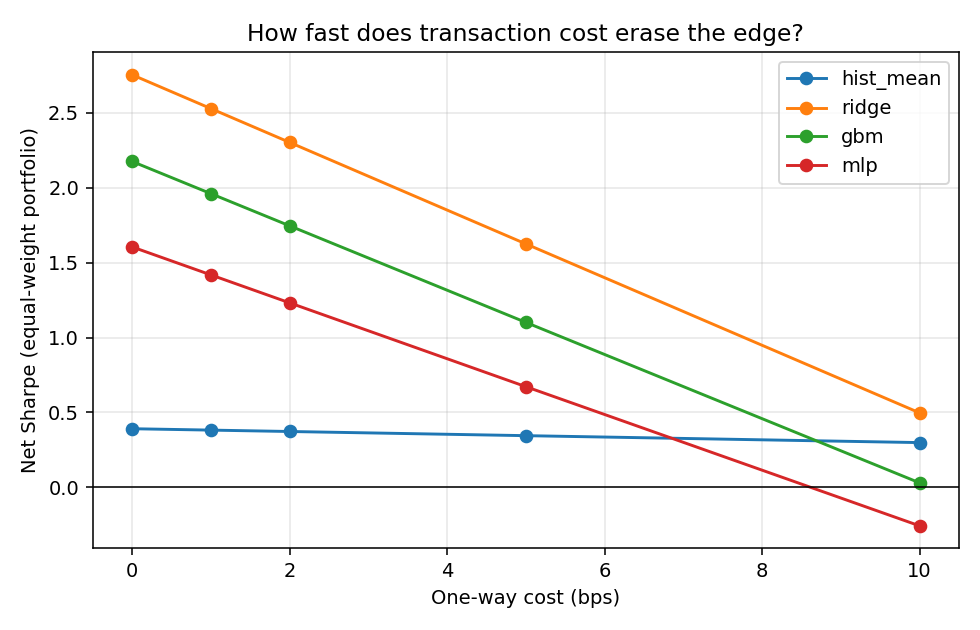
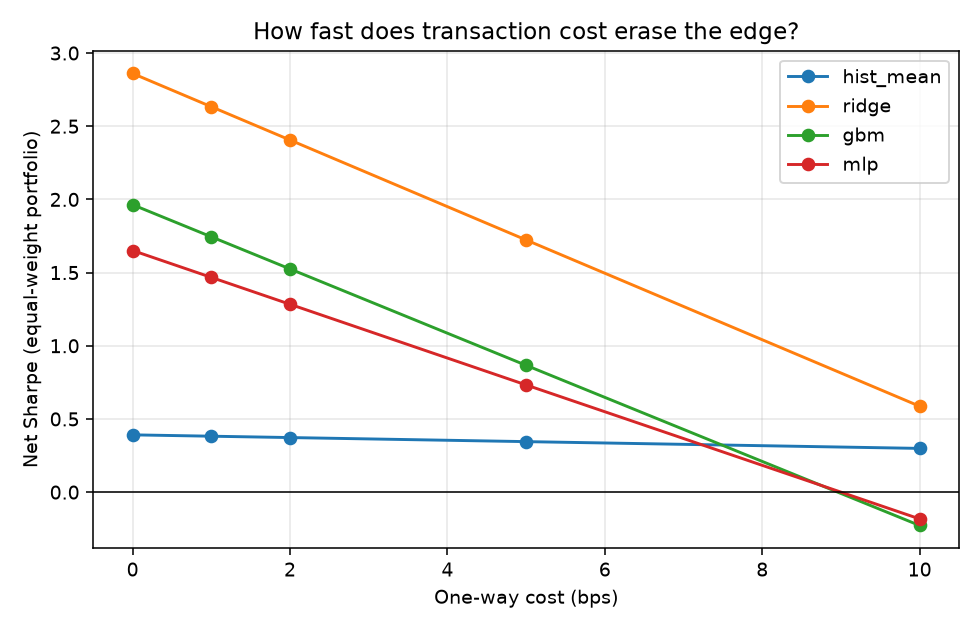
Modified Readme

diff --git a/results/synthetic_null/summary.md b/results/synthetic_null/summary.md
@@ -4,27 +4,27 @@
 
 Out-of-sample window: 2015-02-20 to 2023-06-29  
 Instruments: SYN0, SYN1, SYN2, SYN3  
-Cost: 2 bps one-way; vol target 10%; refit every 126 days, expanding window.
+Cost: 2 bps one-way; vol target 10%; refit every 63 days, expanding window.
 
 ## Equal-weight portfolio (net of costs)
 
 | model | ann_return | ann_vol | sharpe | sharpe_lo | sharpe_hi | max_drawdown | avg_daily_turnover |
 |---|---|---|---|---|---|---|---|
 | hist_mean | 0.014 | 0.051 | 0.302 | -0.364 | 0.969 | -0.094 | 0.019 |
-| ridge | -0.035 | 0.051 | -0.662 | -1.328 | 0.005 | -0.287 | 0.217 |
-| gbm | -0.024 | 0.052 | -0.442 | -1.109 | 0.224 | -0.216 | 0.348 |
-| mlp | -0.034 | 0.051 | -0.651 | -1.318 | 0.016 | -0.265 | 0.385 |
+| ridge | -0.034 | 0.052 | -0.641 | -1.307 | 0.026 | -0.282 | 0.216 |
+| gbm | -0.026 | 0.051 | -0.491 | -1.158 | 0.175 | -0.233 | 0.355 |
+| mlp | -0.047 | 0.051 | -0.910 | -1.577 | -0.243 | -0.347 | 0.396 |
 | buy_and_hold | 0.005 | 0.095 | 0.099 | -0.567 | 0.766 | -0.190 |  |
 
 ## Net Sharpe vs. transaction cost (bps)
 
 | cost_bps | hist_mean | ridge | gbm | mlp |
 |---|---|---|---|---|
-| 0.00 | 0.32 | -0.45 | -0.10 | -0.27 |
-| 1.00 | 0.31 | -0.56 | -0.27 | -0.46 |
-| 2.00 | 0.30 | -0.66 | -0.44 | -0.65 |
-| 5.00 | 0.27 | -0.98 | -0.95 | -1.22 |
-| 10.00 | 0.23 | -1.50 | -1.79 | -2.16 |
+| 0.00 | 0.32 | -0.43 | -0.14 | -0.52 |
+| 1.00 | 0.31 | -0.54 | -0.32 | -0.72 |
+| 2.00 | 0.30 | -0.64 | -0.49 | -0.91 |
+| 5.00 | 0.27 | -0.96 | -1.01 | -1.49 |
+| 10.00 | 0.23 | -1.48 | -1.88 | -2.45 |
 
 ## Per-instrument predictive tests
 
@@ -32,23 +32,23 @@ Cost: 2 bps one-way; vol target 10%; refit every 126 days, expanding window.
 
 | ticker | model | oos_r2 | ic | ic_p_adj | hit_rate | up_day_rate | hit_p_adj | sharpe | max_drawdown |
 |---|---|---|---|---|---|---|---|---|---|
-| SYN0 | hist_mean | 0.000 | -0.000 |  | 0.522 | 0.478 |  | 0.523 | -0.293 |
-| SYN0 | ridge | -0.011 | -0.069 | 0.016 | 0.496 | 0.478 | 0.852 | -0.327 | -0.475 |
-| SYN0 | gbm | -0.033 | -0.007 | 0.982 | 0.512 | 0.478 | 0.852 | 0.285 | -0.184 |
-| SYN0 | mlp | -0.037 | -0.030 | 0.497 | 0.508 | 0.478 | 0.852 | -0.138 | -0.323 |
+| SYN0 | hist_mean | 0.000 | -0.025 |  | 0.522 | 0.478 |  | 0.523 | -0.293 |
+| SYN0 | ridge | -0.010 | -0.068 | 0.017 | 0.496 | 0.478 | 0.737 | -0.370 | -0.487 |
+| SYN0 | gbm | -0.031 | -0.012 | 0.866 | 0.514 | 0.478 | 0.823 | 0.264 | -0.234 |
+| SYN0 | mlp | -0.035 | -0.024 | 0.633 | 0.504 | 0.478 | 0.983 | -0.220 | -0.377 |
 | SYN0 | buy_and_hold |  |  |  |  |  |  | -0.480 | -0.707 |
-| SYN1 | hist_mean | 0.000 | -0.004 |  | 0.494 | 0.506 |  | -0.501 | -0.411 |
-| SYN1 | ridge | -0.002 | -0.001 | 0.982 | 0.492 | 0.506 | 0.852 | -0.528 | -0.430 |
-| SYN1 | gbm | -0.027 | -0.011 | 0.982 | 0.501 | 0.506 | 0.898 | -0.552 | -0.537 |
-| SYN1 | mlp | -0.054 | -0.000 | 0.982 | 0.503 | 0.506 | 0.852 | -0.680 | -0.516 |
+| SYN1 | hist_mean | 0.000 | 0.000 |  | 0.494 | 0.506 |  | -0.501 | -0.411 |
+| SYN1 | ridge | -0.002 | -0.001 | 0.991 | 0.493 | 0.506 | 0.891 | -0.487 | -0.419 |
+| SYN1 | gbm | -0.021 | -0.011 | 0.866 | 0.491 | 0.506 | 0.823 | -0.475 | -0.525 |
+| SYN1 | mlp | -0.051 | -0.000 | 0.991 | 0.507 | 0.506 | 0.823 | -0.631 | -0.502 |
 | SYN1 | buy_and_hold |  |  |  |  |  |  | 0.452 | -0.339 |
-| SYN2 | hist_mean | 0.000 | -0.007 |  | 0.498 | 0.502 |  | 0.230 | -0.279 |
-| SYN2 | ridge | -0.011 | -0.002 | 0.982 | 0.505 | 0.502 | 0.852 | 0.076 | -0.259 |
-| SYN2 | gbm | -0.040 | -0.020 | 0.863 | 0.502 | 0.502 | 0.852 | -0.397 | -0.404 |
-| SYN2 | mlp | -0.042 | -0.033 | 0.497 | 0.487 | 0.502 | 0.852 | -0.433 | -0.397 |
+| SYN2 | hist_mean | 0.000 | 0.004 |  | 0.498 | 0.502 |  | 0.230 | -0.279 |
+| SYN2 | ridge | -0.010 | 0.004 | 0.991 | 0.506 | 0.502 | 0.823 | 0.001 | -0.264 |
+| SYN2 | gbm | -0.036 | -0.010 | 0.866 | 0.498 | 0.502 | 0.983 | -0.414 | -0.406 |
+| SYN2 | mlp | -0.045 | -0.041 | 0.330 | 0.485 | 0.502 | 0.737 | -0.605 | -0.495 |
 | SYN2 | buy_and_hold |  |  |  |  |  |  | -0.068 | -0.677 |
-| SYN3 | hist_mean | 0.000 | -0.029 |  | 0.513 | 0.513 |  | 0.344 | -0.270 |
-| SYN3 | ridge | -0.008 | -0.032 | 0.497 | 0.496 | 0.513 | 0.852 | -0.540 | -0.478 |
-| SYN3 | gbm | -0.027 | -0.008 | 0.982 | 0.497 | 0.513 | 0.852 | -0.218 | -0.310 |
-| SYN3 | mlp | -0.043 | -0.012 | 0.982 | 0.495 | 0.513 | 0.852 | -0.032 | -0.314 |
+| SYN3 | hist_mean | 0.000 | -0.022 |  | 0.513 | 0.513 |  | 0.344 | -0.270 |
+| SYN3 | ridge | -0.008 | -0.027 | 0.619 | 0.497 | 0.513 | 0.823 | -0.429 | -0.444 |
+| SYN3 | gbm | -0.027 | -0.010 | 0.866 | 0.498 | 0.513 | 0.937 | -0.346 | -0.362 |
+| SYN3 | mlp | -0.049 | -0.030 | 0.619 | 0.484 | 0.513 | 0.737 | -0.354 | -0.454 |
 | SYN3 | buy_and_hold |  |  |  |  |  |  | 0.294 | -0.500 |

diff --git a/results/synthetic_planted/summary.md b/results/synthetic_planted/summary.md
@@ -4,27 +4,27 @@
 
 Out-of-sample window: 2015-02-20 to 2023-06-29  
 Instruments: SYN0, SYN1, SYN2, SYN3  
-Cost: 2 bps one-way; vol target 10%; refit every 126 days, expanding window.
+Cost: 2 bps one-way; vol target 10%; refit every 63 days, expanding window.
 
 ## Equal-weight portfolio (net of costs)
 
 | model | ann_return | ann_vol | sharpe | sharpe_lo | sharpe_hi | max_drawdown | avg_daily_turnover |
 |---|---|---|---|---|---|---|---|
 | hist_mean | 0.018 | 0.052 | 0.373 | -0.294 | 1.039 | -0.103 | 0.019 |
-| ridge | 0.126 | 0.052 | 2.303 | 1.633 | 2.973 | -0.046 | 0.465 |
-| gbm | 0.095 | 0.053 | 1.746 | 1.077 | 2.414 | -0.062 | 0.447 |
-| mlp | 0.065 | 0.052 | 1.232 | 0.564 | 1.899 | -0.093 | 0.386 |
+| ridge | 0.131 | 0.052 | 2.406 | 1.735 | 3.076 | -0.048 | 0.467 |
+| gbm | 0.081 | 0.052 | 1.525 | 0.857 | 2.193 | -0.062 | 0.454 |
+| mlp | 0.069 | 0.053 | 1.283 | 0.616 | 1.951 | -0.068 | 0.387 |
 | buy_and_hold | 0.004 | 0.096 | 0.086 | -0.580 | 0.753 | -0.220 |  |
 
 ## Net Sharpe vs. transaction cost (bps)
 
 | cost_bps | hist_mean | ridge | gbm | mlp |
 |---|---|---|---|---|
-| 0.00 | 0.39 | 2.75 | 2.18 | 1.60 |
-| 1.00 | 0.38 | 2.53 | 1.96 | 1.42 |
-| 2.00 | 0.37 | 2.30 | 1.75 | 1.23 |
-| 5.00 | 0.35 | 1.63 | 1.10 | 0.67 |
-| 10.00 | 0.30 | 0.50 | 0.03 | -0.26 |
+| 0.00 | 0.39 | 2.86 | 1.96 | 1.65 |
+| 1.00 | 0.38 | 2.63 | 1.74 | 1.47 |
+| 2.00 | 0.37 | 2.41 | 1.52 | 1.28 |
+| 5.00 | 0.35 | 1.72 | 0.87 | 0.73 |
+| 10.00 | 0.30 | 0.59 | -0.23 | -0.18 |
 
 ## Per-instrument predictive tests
 
@@ -32,23 +32,23 @@ Cost: 2 bps one-way; vol target 10%; refit every 126 days, expanding window.
 
 | ticker | model | oos_r2 | ic | ic_p_adj | hit_rate | up_day_rate | hit_p_adj | sharpe | max_drawdown |
 |---|---|---|---|---|---|---|---|---|---|
-| SYN0 | hist_mean | 0.000 | -0.000 |  | 0.522 | 0.478 |  | 0.643 | -0.329 |
-| SYN0 | ridge | 0.011 | 0.088 | 0.000 | 0.520 | 0.478 | 0.161 | 0.827 | -0.198 |
-| SYN0 | gbm | -0.014 | 0.059 | 0.007 | 0.520 | 0.478 | 0.161 | 0.598 | -0.290 |
-| SYN0 | mlp | -0.021 | 0.033 | 0.133 | 0.501 | 0.478 | 0.830 | 0.121 | -0.347 |
+| SYN0 | hist_mean | 0.000 | -0.026 |  | 0.522 | 0.478 |  | 0.643 | -0.329 |
+| SYN0 | ridge | 0.011 | 0.088 | 0.000 | 0.521 | 0.478 | 0.138 | 0.840 | -0.191 |
+| SYN0 | gbm | -0.014 | 0.063 | 0.005 | 0.524 | 0.478 | 0.077 | 0.793 | -0.198 |
+| SYN0 | mlp | -0.018 | 0.045 | 0.038 | 0.516 | 0.478 | 0.290 | 0.528 | -0.261 |
 | SYN0 | buy_and_hold |  |  |  |  |  |  | -0.570 | -0.763 |
-| SYN1 | hist_mean | 0.000 | -0.004 |  | 0.497 | 0.503 |  | -0.559 | -0.446 |
-| SYN1 | ridge | 0.024 | 0.126 | 0.000 | 0.529 | 0.503 | 0.013 | 0.887 | -0.155 |
-| SYN1 | gbm | -0.006 | 0.065 | 0.004 | 0.519 | 0.503 | 0.108 | 0.766 | -0.143 |
-| SYN1 | mlp | -0.015 | 0.085 | 0.000 | 0.527 | 0.503 | 0.023 | 0.644 | -0.257 |
+| SYN1 | hist_mean | 0.000 | 0.002 |  | 0.497 | 0.503 |  | -0.559 | -0.446 |
+| SYN1 | ridge | 0.025 | 0.128 | 0.000 | 0.530 | 0.503 | 0.008 | 0.852 | -0.168 |
+| SYN1 | gbm | -0.004 | 0.064 | 0.004 | 0.513 | 0.503 | 0.276 | 0.238 | -0.197 |
+| SYN1 | mlp | -0.011 | 0.074 | 0.001 | 0.531 | 0.503 | 0.008 | 0.638 | -0.280 |
 | SYN1 | buy_and_hold |  |  |  |  |  |  | 0.510 | -0.382 |
-| SYN2 | hist_mean | 0.000 | -0.007 |  | 0.498 | 0.502 |  | 0.278 | -0.308 |
-| SYN2 | ridge | -0.000 | 0.089 | 0.000 | 0.538 | 0.502 | 0.001 | 1.218 | -0.150 |
-| SYN2 | gbm | -0.024 | 0.061 | 0.006 | 0.541 | 0.502 | 0.000 | 0.927 | -0.115 |
-| SYN2 | mlp | -0.040 | 0.018 | 0.395 | 0.510 | 0.502 | 0.390 | 0.529 | -0.252 |
+| SYN2 | hist_mean | 0.000 | 0.005 |  | 0.498 | 0.502 |  | 0.278 | -0.308 |
+| SYN2 | ridge | 0.001 | 0.091 | 0.000 | 0.539 | 0.502 | 0.001 | 1.317 | -0.146 |
+| SYN2 | gbm | -0.028 | 0.056 | 0.011 | 0.533 | 0.502 | 0.005 | 0.593 | -0.200 |
+| SYN2 | mlp | -0.041 | 0.007 | 0.733 | 0.506 | 0.502 | 0.592 | 0.457 | -0.346 |
 | SYN2 | buy_and_hold |  |  |  |  |  |  | -0.099 | -0.731 |
-| SYN3 | hist_mean | 0.000 | -0.031 |  | 0.511 | 0.511 |  | 0.375 | -0.309 |
-| SYN3 | ridge | 0.019 | 0.144 | 0.000 | 0.557 | 0.511 | 0.000 | 1.692 | -0.102 |
-| SYN3 | gbm | -0.003 | 0.099 | 0.000 | 0.548 | 0.511 | 0.000 | 1.247 | -0.155 |
-| SYN3 | mlp | -0.019 | 0.065 | 0.004 | 0.527 | 0.511 | 0.032 | 1.184 | -0.174 |
+| SYN3 | hist_mean | 0.000 | -0.023 |  | 0.511 | 0.511 |  | 0.375 | -0.309 |
+| SYN3 | ridge | 0.019 | 0.145 | 0.000 | 0.559 | 0.511 | 0.000 | 1.815 | -0.096 |
+| SYN3 | gbm | -0.000 | 0.106 | 0.000 | 0.550 | 0.511 | 0.000 | 1.444 | -0.114 |
+| SYN3 | mlp | -0.022 | 0.065 | 0.004 | 0.526 | 0.511 | 0.035 | 1.008 | -0.144 |
 | SYN3 | buy_and_hold |  |  |  |  |  |  | 0.326 | -0.553 |
